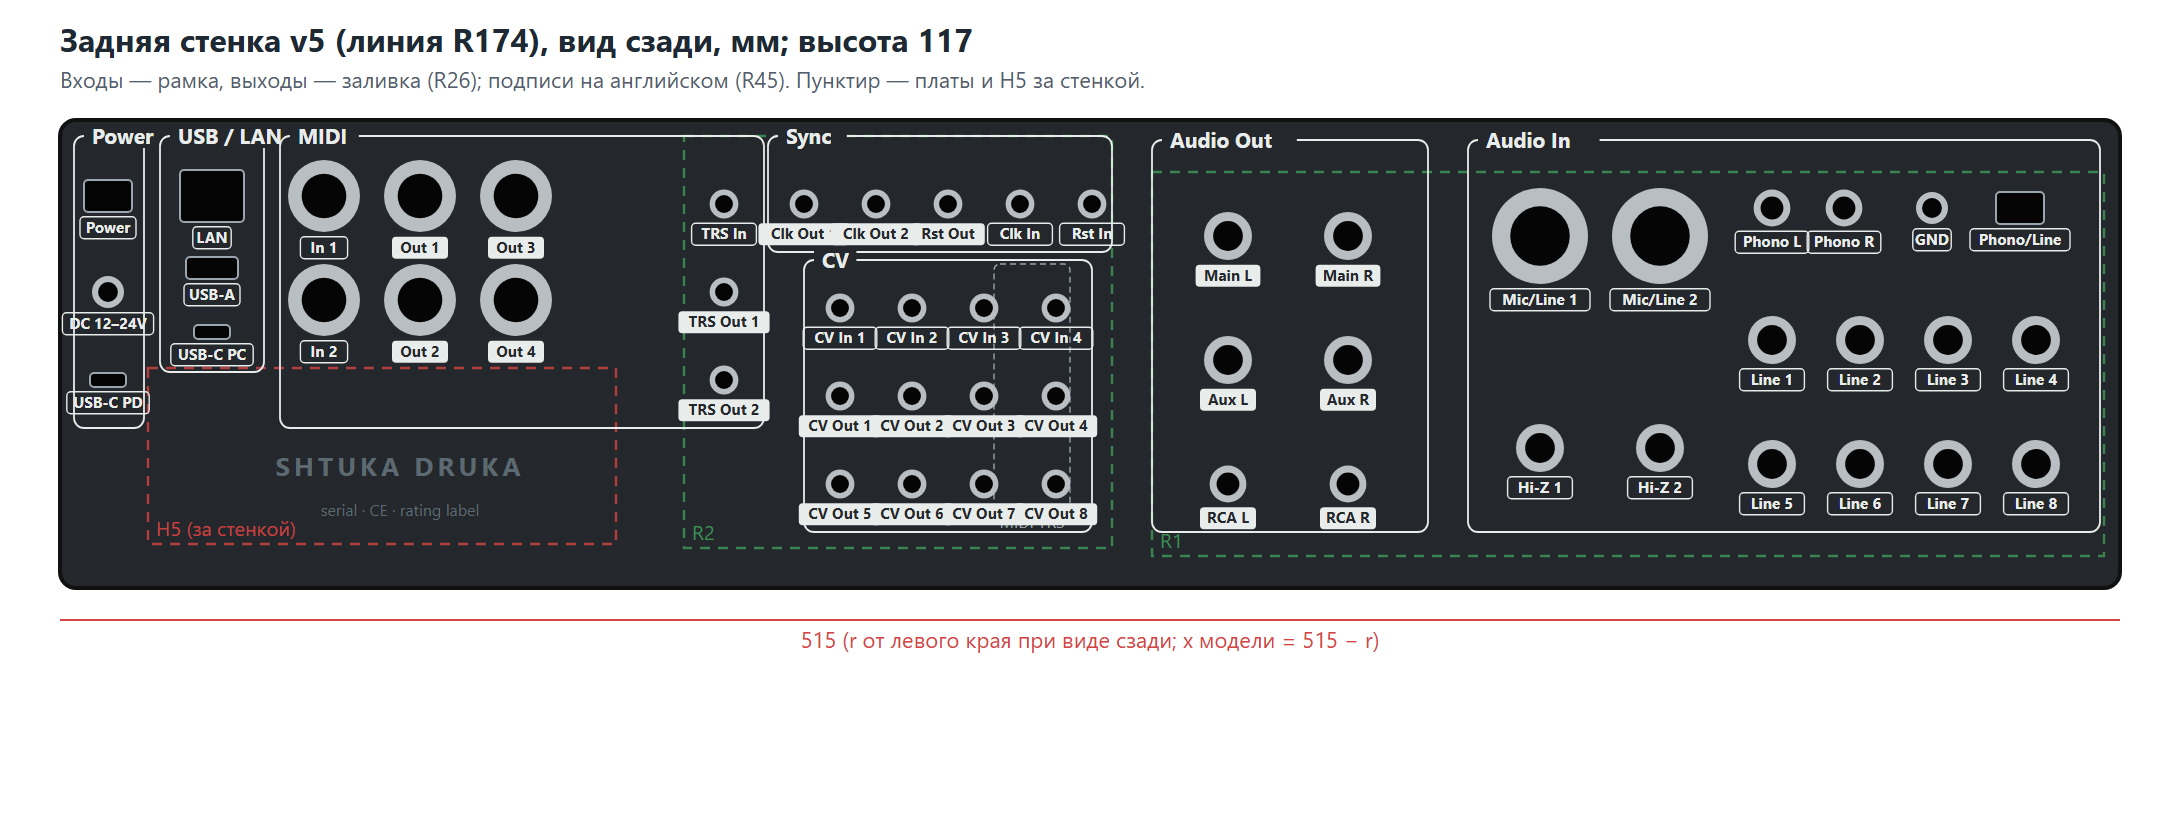
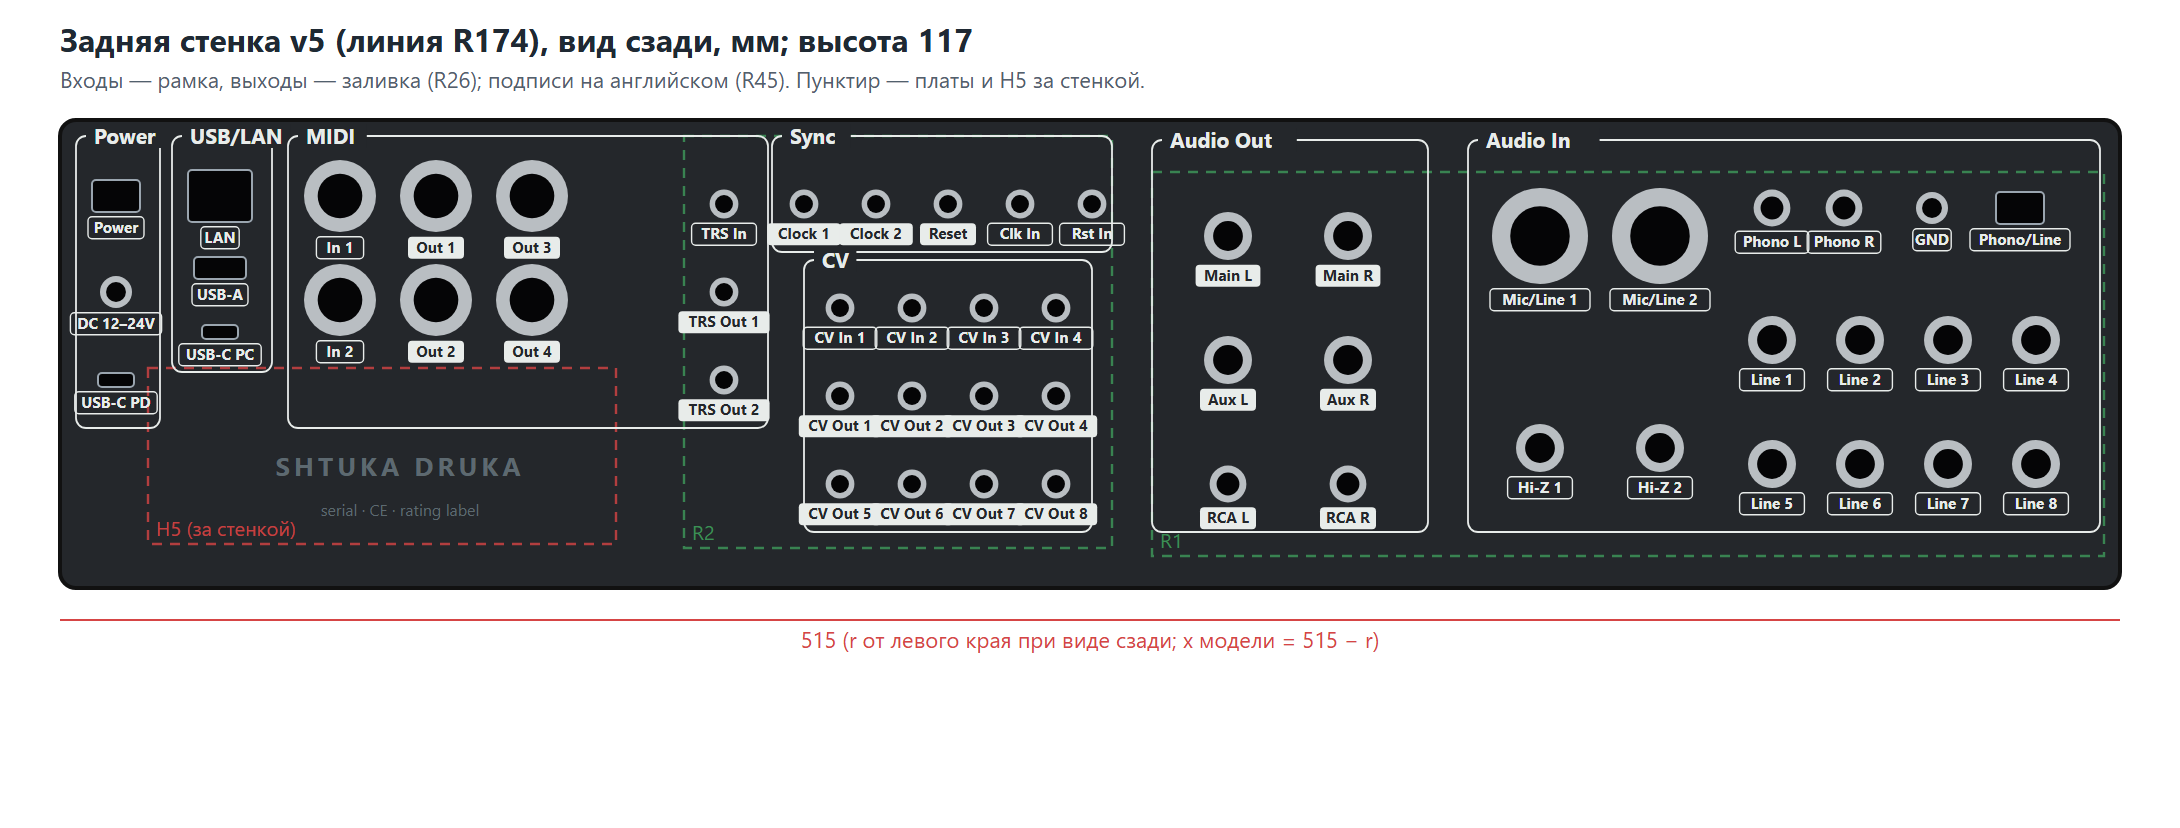
Doc 41 section 24: rear panel v5 after the user's review - power at the edge with the switch above the cables, MIDI TRS inside the MIDI block (R32), Sync and CV separated

Changed region(s): [[0.0312, 0.151, 0.2807, 0.5133], [0.3431, 0.2717, 0.4679, 0.3019], [0.3431, 0.151, 0.4055, 0.1812]]

diff --git a/docs/ru/41_design_review.md b/docs/ru/41_design_review.md
@@ -2,7 +2,7 @@
 
 Статус: **предложения на выбор пользователя**, не решения. Ничего в платах, `layout_v7.json`, генераторах и модели не менялось. Решения R152–R173 — отправная точка; где силуэт их ломает, это написано явно (раздел 5).
 
-**Обновление 17.11.2026 (вечер), после замечаний пользователя.** Пользователь: «принтер» — это «здоровая будка и тонкая часть, как лоток под листы»; прежняя ступенька (деки 28, сгиб 41, зад 116, скриншоты артефакта) устраивала, не устраивало только колесо впритык; сейчас «огромная ступень, всё отъехало назад, гроб с ковриком». Задача: изучить аналоги (дизайн и эргономика), потом думать, **как переставить внутренности, чтобы будка стала компактнее**. **Раздел 24 — задняя стенка v4 (рисунок, координаты для шаблона) и щели в люке под аккумуляторами (R185).** **Раздел 23 — набросок пользователя: макушка 120, задник +10, экран краем к гнёздам — 0 касаний (с угловыми штекерами экрана).** **Раздел 22 — вентилятор на правой стенке, H5 вплотную к задней (заменяет «вентилятор сзади» в 16–21).** **Раздел 21 — правки вида артефакта v8 и концепты К1–К3 параметрами для генератора.** **Раздел 20 — три концепта «зад ≤ 120» (К1 низкий клин 113, К2 широкий экран 96, К3 конёк 117 / 55).** **Раздел 19 — «зелёная»: дека 30, без ступеньки, глубина 500; рекомендация дизайнера, колесо на y 268.** **Раздел 18 — итоговая форма без губы: эскизы (3/4, сбоку, сверху, было → стало) и выводы.** **Раздел 16 — предложения дизайнера (Д-1…Д-9, не решения) и задание инженерам (Т-1…Т-6).** **Раздел 15 — прогон двух линий пользователя в модели: оба варианта собираются (0 столкновений) при H5 в заднем правом углу и переделке задней стенки.** Разделы 10–12 — результат изучения; разделы 1–7 написаны до замечания и **про профиль «Z», а не про будку**: варианты A, B, C оставляют зад 131 мм как есть, так что читать их как запасной план про оболочку, а не как ответ.
+**Обновление 17.11.2026 (вечер), после замечаний пользователя.** Пользователь: «принтер» — это «здоровая будка и тонкая часть, как лоток под листы»; прежняя ступенька (деки 28, сгиб 41, зад 116, скриншоты артефакта) устраивала, не устраивало только колесо впритык; сейчас «огромная ступень, всё отъехало назад, гроб с ковриком». Задача: изучить аналоги (дизайн и эргономика), потом думать, **как переставить внутренности, чтобы будка стала компактнее**. **Раздел 24 — задняя стенка v5 (v4 отклонена; рисунок, координаты для шаблона) и щели в люке под аккумуляторами (R185).** **Раздел 23 — набросок пользователя: макушка 120, задник +10, экран краем к гнёздам — 0 касаний (с угловыми штекерами экрана).** **Раздел 22 — вентилятор на правой стенке, H5 вплотную к задней (заменяет «вентилятор сзади» в 16–21).** **Раздел 21 — правки вида артефакта v8 и концепты К1–К3 параметрами для генератора.** **Раздел 20 — три концепта «зад ≤ 120» (К1 низкий клин 113, К2 широкий экран 96, К3 конёк 117 / 55).** **Раздел 19 — «зелёная»: дека 30, без ступеньки, глубина 500; рекомендация дизайнера, колесо на y 268.** **Раздел 18 — итоговая форма без губы: эскизы (3/4, сбоку, сверху, было → стало) и выводы.** **Раздел 16 — предложения дизайнера (Д-1…Д-9, не решения) и задание инженерам (Т-1…Т-6).** **Раздел 15 — прогон двух линий пользователя в модели: оба варианта собираются (0 столкновений) при H5 в заднем правом углу и переделке задней стенки.** Разделы 10–12 — результат изучения; разделы 1–7 написаны до замечания и **про профиль «Z», а не про будку**: варианты A, B, C оставляют зад 131 мм как есть, так что читать их как запасной план про оболочку, а не как ответ.
 
 Пометки: **[факт]** — взято из документов, модели или посчитано из них; **[вывод]** — мой вывод из фактов; **[предположение]** — допущение, которого в проекте нет; **[сверить]** — взято по памяти или принято «в среднем», проверить по источнику или руками на макете (R43).
 
@@ -521,35 +521,33 @@
 
 **[вывод дизайнера]** Беру: зад ниже на 11 мм, скат положе и спокойнее, макушка совпадает с верхом коробки гнёзд — силуэт одной линией от деки до задней кромки. Предлагаю главной сессии добавить в v8 вариант **«Зелёная-2 (510)»**: дека 30, `REAR_SHIFT` 50 (задник +10), конец ската y 463,4, макушка 120, экран: сдвиг по скату 20–30, угловые штекеры экрана.
 
-## 24. Задняя стенка v4 и щели в люке (18.11.2026)
+## 24. Задняя стенка v5 и щели в люке (18.11.2026)
 
 Исходные данные (главная сессия, R178, R182; линия R174): зад 117 мм; R2 — прямоугольник 107 × 103 без плеча, вид сзади r 156–263 (модель x 252–359), z 10–113; R1 — r 273–511 (x 4–242), z 8–104; H5 за стенкой в левом углу вида сзади, r 19–139, z 11–55; шесть гнёзд DIN и блок «Питание / USB» — на гайках с кабелями над H5 (модель x 376–510, z 70–110); три MIDI TRS — в 5-м столбце блока CV; вентилятор на правой стенке, не сзади. **r** — мм от левого края при виде сзади, модель x = 515 − r; **z** — от пола.
 
 Рисунок: [`img/41_rear_v4.svg`](img/41_rear_v4.svg) ([png](img/41_rear_v4.png)), генератор [`41_rear_v4.py`](img/41_rear_v4.py) (печатает таблицу всех гнёзд).
 
-### 24.1 Раскладка (подписи на английском, R45; входы — рамкой, выходы — заливкой, R26)
+### 24.1 Раскладка v5 (v4 отклонена пользователем)
 
-| Блок | Где (r, z) | Что |
+**Пользователь о v4 (18.11.2026):** «Что за trs в клоках и сиви гейтах?… Блок миди норм, но блок питания это ужас. Если вставить провода то тумблер питания не доступен. Джек питания находится между всем подряд. Никакой логики. Никакой эргономики». **[факт]** В v4 я нарушил R32 («TRS-гнёзда внутри MIDI-блока, не рядом с CV»): три MIDI TRS (MIDI по 3,5 мм, тип A/B) стояли пятым столбцом блока CV и выглядели как гнёзда клока. Сами Clock / Reset / CV — обычные 3,5 мм (R33, R35), «TRS» к ним отношения не имеет; подписи были непонятные.
+
+Рисунок v5: [`img/41_rear_v5.svg`](img/41_rear_v5.svg) ([png](img/41_rear_v5.png)), генератор [`41_rear_v5.py`](img/41_rear_v5.py) (печатает таблицу). v4 оставлен для истории: [`41_rear_v4.svg`](img/41_rear_v4.svg).
+
+**Логика v5 (вид сзади, слева направо): Power → USB/LAN → MIDI → Sync → CV → Audio Out → Audio In** — от того, что включают один раз, к тому, что переставляют чаще; от управления к звуку.
+
+| Блок | Где (r, z) | Что и почему |
 |---|---|---|
-| **MIDI** (над H5) | рамка r 6–137, z 84–113 | DIN 5 в один ряд на z 101, шаг 22: In 1 (r 17), In 2 (39), Out 1 (61), Out 2 (83), Out 3 (105), Out 4 (127) |
-| **Power / USB** (над H5) | рамка r 6–137, z 56–79 | ряд на z 71: LAN (r 18, 16 × 13), USB-A (39), USB-C PC (60), DC 12–24V (82), USB-C PD (104), On/Off (125) |
-| Поле над H5 внизу | r 19–139, z 11–55 | без гнёзд: надпись SHTUKA DRUKA и место под табличку (серийный номер, CE, питание) |
-| **Control** (R2) | рамка r 157–262, z 14–112 | 5 столбцов r 171, 189, 207, 225, 243; ряды z 96 / 74 / 52 / 30: Clk O1, Clk O2, Rst O, Clk In, Rst In; CV In 1–4 + **TRS In**; CV 1–4 + **TRS O1**; CV 5–8 + **TRS O2** (5-й столбец рядов 2–4 — в отдельной пунктирной рамке «MIDI TRS») |
-| **Audio Out** (R1) | рамка r 273–342, z 14–112 | Main L / R (r 292 / 322, z 88), Aux L / R (z 57), RCA L / R (z 26) |
-| **Audio In** (R1) | рамка r 352–510, z 14–112 | Mic/Line 1, 2 (r 370 / 400, z 88), Hi-Z 1, 2 (z 35), Phono L / R (r 428 / 446, z 95), GND (468), Phono/Line (490), Line 1–4 (r 428–494, шаг 22, z 62), Line 5–8 (z 31) |
+| **Power** | крайний столбец r 4–25, z 40–113 | сверху **выключатель** (r 14, z 98), под ним DC 12–24V (z 74), USB-C PD (z 52). Выключатель — на краю и выше всех кабелей: кабели питания уходят вниз и вбок, к выключателю рука идёт снаружи, не через провода. Питание отделено от всего остального |
+| **USB/LAN** | r 28–53, z 54–113 | LAN (z 98), USB-A (80), USB-C PC (64) столбцом, рядом с питанием: кабели, которые подключают один раз |
+| **MIDI** | r 57–177, z 40–113 | DIN 2 × 3: In 1 / In 2 (r 70), Out 1 / Out 2 (r 94), Out 3 / Out 4 (r 118), ряды z 98 / 72; **в том же блоке** справа столбец MIDI TRS: TRS In (z 96), TRS Out 1 (74), TRS Out 2 (52) на r 166 — это левый край R2 (R141: все мини-джеки на R2), за ним промежуток до Sync |
+| **Sync** | r 178–263, z 84–113 | Clock 1, Clock 2, Reset (выходы), Clk In, Rst In (входы); r 186 / 204 / 222 / 240 / 258, z 96 |
+| **CV** | r 186–258, z 14–82 | 4 столбца r 195 / 213 / 231 / 249: CV In 1–4 (z 70), CV Out 1–4 (z 48), CV Out 5–8 (z 26) |
+| **Audio Out**, **Audio In** | как в v4 | без изменений |
+| Поле над H5 внизу | r 22–139, z 11–40 | надпись и табличка |
 
-**[вывод дизайнера]** Зад читается слева направо как сигнальный путь: компьютер и питание — синхронизация и CV — выходы — входы. MIDI DIN над H5 — самые крупные гнёзда в самом высоком месте, где их удобно воткнуть сверху-сзади. Все подписи над стенкой выровнены по одной линии в каждом ряду.
+### 24.2 Координаты v5 для шаблона v8 (правит главная сессия)
 
-### 24.2 Изменения координат для шаблона v8 (блок задней стенки; правит главная сессия)
-
-В шаблоне задняя стенка строится в координатах v7 (r и «y» × YS). Для v4: **YS = 1, z — как в таблице выше, в миллиметрах.**
-
-1. `rframe`: Power / USB r 6–137 и **z 56–79** (а не на всю высоту); новая рамка **MIDI** r 6–137, z 84–113; **Control r 157–262**; Audio Out r 273–342; Audio In r 352–510 (у трёх последних z 14–112). У `rframe` нужен аргумент высоты (z0, z1) — сейчас он рисует на всю стенку.
-2. DIN: из блока Control (r 100–144) — в ряд над H5: z 101, r 17, 39, 61, 83, 105, 127; бирки «In 1, In 2, Out 1…4».
-3. Power / USB: LAN r 18, USB-A r 39, USB-C (PC) r 60, DC r 82, **USB-C PD r 104 (новое гнездо, было на рисунке v3)**, On/Off r 125; все на z 71.
-4. Control: столбцы 171 / 189 / 207 / 225 / 243 вместо 172 + 17 i; ряды z 96 / 74 / 52 / 30; MIDI TRS (In, O1, O2) — столбец r 243, ряды 74 / 52 / 30 (раньше r 100–144, z 22).
-5. Audio Out / In: r как в v7, z = v7 «y» × 1,1 (Main 88, Aux 57, RCA 26; Mic/Line 88, Hi-Z 35, Phono / GND / Phono-Line 95, Line 62 / 31).
-6. Надпись SHTUKA DRUKA и место таблички — r 72, z 30 и 20.
+YS = 1, z в мм. Рамки (r0–r1, z0–z1): Power 4–25, 40–113; USB/LAN 28–53, 54–113; MIDI 57–177, 40–113; Sync 178–263, 84–113; CV 186–258, 14–82; Audio Out 273–342, 14–112; Audio In 352–510, 14–112. Гнёзда — таблица выше (полный список печатает `41_rear_v5.py`). **Проверить в модели:** столбец Power (модель x ≈ 495–507) — глубина панельных гнёзд 15–20 мм у правой стенки рядом с вентилятором 80 × 80 × 25; если тесно — выключатель на правую боковую стенку у заднего угла (тоже снаружи от кабелей).
 
 ### 24.3 Вентиляция: только щели в люке под аккумуляторами (R185)
 
